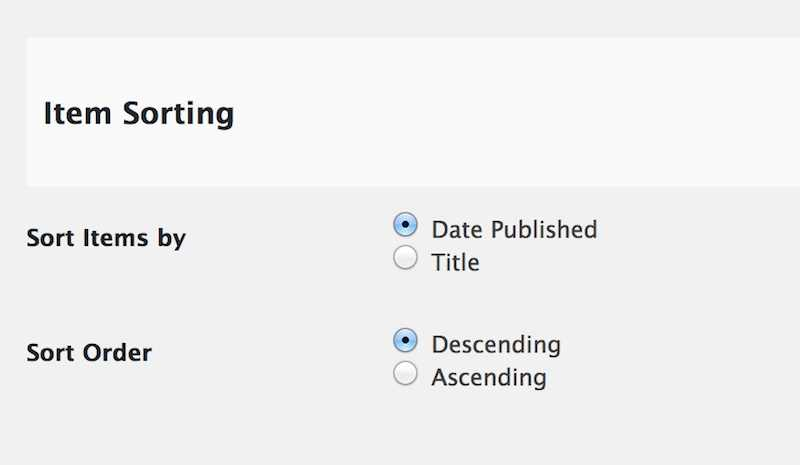
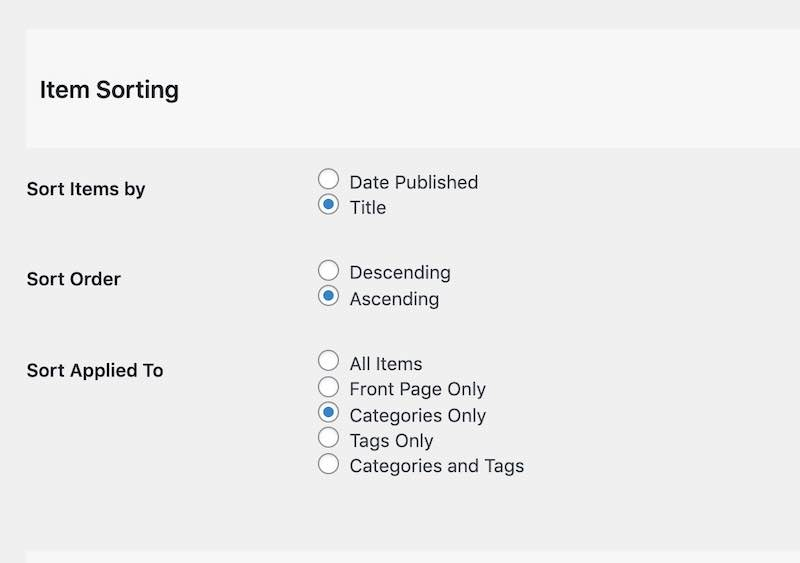
Sorting and new shortcodes options
SPLOTbox Options provides settings to change the sorting of published items to be by date or alphabetical, and can be ascending or descending. There are also settings to apply it only to the home page, or just to tag and/or category archives. Also updated template to properly display archive headings and descriptions (for tag and category archives). Added shortcodes for listing all (or with other options some) tags used plus a shortcode to display the total number of items published in a box

diff --git a/style.css b/style.css
@@ -2,7 +2,7 @@
 Theme Name: 	Splotbox
 Theme URI: 		http://github.com/cogdog/splotbox
 Description: 	SPLOT Media Collector (Child of Garfunkel)
-Version: 		3.92
+Version: 		3.95
 Template:   garfunkel
 Author: 		CogDog
 Author URI: 	https://cog.dog/

diff --git a/includes/tools.php b/includes/tools.php
@@ -11,17 +11,17 @@ function page_with_template_exists ( $template ) {
 				'meta_key' => '_wp_page_template',
 				'meta_value' => $template
 			));
-	 
+
 	// did we find any?
 	$pages_found = ( count ($seekpages) ) ? true : false ;
-	
+
 	// report to base
 	return ($pages_found);
 }
 
 function get_pages_with_template ( $template ) {
 	// returns array of pages with a given template
-	
+
 	// look for pages that use the given template
 	$seekpages = get_posts (array (
 				'post_type' => 'page',
@@ -29,16 +29,16 @@ function get_pages_with_template ( $template ) {
 				'meta_value' => $template,
 				'posts_per_page' => -1
 	));
-	
+
 	// holder for results
 	$tpages = array(0 => 'Select Page');
-	
+
 
 	// Walk those results, store ID of pages found
 	foreach ( $seekpages as $p ) {
 		$tpages[$p->ID] = $p->post_title;
 	}
-	
+
 	return $tpages;
 }
 
@@ -46,7 +46,7 @@ function splotbox_get_share_page() {
 
 	// return sluf for page set in theme options for sharing page (newer versions of SPLOT)
 	if ( splotbox_option( 'share_page' ) )  {
-		return ( get_post_field( 'post_name', get_post( splotbox_option( 'share_page' ) ) ) ); 
+		return ( get_post_field( 'post_name', get_post( splotbox_option( 'share_page' ) ) ) );
 	} else {
 		// older versions of SPLOT use the slug
 		return ('share');
@@ -57,7 +57,7 @@ function splotbox_get_licensed_page() {
 
 	// return sluf for page set in theme options for licenses page (newer versions of SPLOT)
 	if ( splotbox_option( 'licensed_page' ) )  {
-		return ( get_post_field( 'post_name', get_post( splotbox_option( 'licensed_page' ) ) ) ); 
+		return ( get_post_field( 'post_name', get_post( splotbox_option( 'licensed_page' ) ) ) );
 	} else {
 		// older versions of SPLOT use the slug
 		return ('licensed');
@@ -87,22 +87,22 @@ function splot_redirect_url() {
 
 // return the maxium upload file size in omething more useful than bytes
 function splotbox_max_upload() {
-	$maxupload = wp_max_upload_size() / 1000000;	
+	$maxupload = wp_max_upload_size() / 1000000;
 	return ( round( $maxupload ) . ' Mb');
 
 }
-								
+
 // function to get the caption for an attachment (stored as post_excerpt)
 // -- h/t http://wordpress.stackexchange.com/a/73894/14945
 
 function get_attachment_caption_by_id( $post_id ) {
     $the_attachment = get_post( $post_id );
-    return ( $the_attachment->post_excerpt ); 
+    return ( $the_attachment->post_excerpt );
 }
 
-// for uploading images 
+// for uploading images
 function splotbox_insert_attachment( $file_handler, $post_id ) {
-	
+
 	if ($_FILES[$file_handler]['error'] !== UPLOAD_ERR_OK) return (false);
 
 	require_once( ABSPATH . "wp-admin" . '/includes/image.php' );
@@ -110,9 +110,9 @@ function splotbox_insert_attachment( $file_handler, $post_id ) {
 	require_once( ABSPATH . "wp-admin" . '/includes/media.php' );
 
 	$attach_id = media_handle_upload( $file_handler, $post_id );
-	
+
 	return ($attach_id);
-	
+
 }
 
 
@@ -122,7 +122,7 @@ function splotbox_insert_attachment( $file_handler, $post_id ) {
 
 function splotbox_preview_notice() {
 	return ('<div class="notify"><span class="symbol icon-info"></span>
-This is a preview of your entry that shows how it will look when published. <a href="#" onclick="self.close();return false;">Close this window/tab</a> when done to return to the sharing form. Make any changes and click "Revise Draft" again or if it is ready, click "Publish Now".		
+This is a preview of your entry that shows how it will look when published. <a href="#" onclick="self.close();return false;">Close this window/tab</a> when done to return to the sharing form. Make any changes and click "Revise Draft" again or if it is ready, click "Publish Now".
 				</div>');
 }
 
@@ -145,7 +145,7 @@ function splotbox_get_two_items() {
 		foreach ( $rand_posts as $apost ) {
 			$rand_titles[] = $apost->post_title;
 		}
-	
+
 		return ($rand_titles);
 	} else {
 		// just in case we did not get enought
@@ -178,30 +178,30 @@ function make_links_clickable( $text ) {
 
 // -----  expose post meta date to API
 add_action( 'rest_api_init', 'splotbox_create_api_posts_meta_field' );
- 
+
 function splotbox_create_api_posts_meta_field() {
- 
+
 	register_rest_field( 'post', 'splot_meta', array(
 								 'get_callback' => 'splotbox_get_splot_meta_for_api',
  								 'schema' => null,)
  	);
 }
- 
+
 function splotbox_get_splot_meta_for_api( $object ) {
 	//get the id of the post object array
 	$post_id = $object['id'];
 
 	// meta data fields we wish to make available
 	$splot_meta_fields = ['author' => 'wAuthor', 'license' => 'wLicense', 'footer' => 'wFooter'];
-	
+
 	// array to hold stuff
 	$splot_meta = [];
- 
+
  	foreach ($splot_meta_fields as $meta_key =>  $meta_value) {
 	 	//return the post meta for each field
 	 	$splot_meta[$meta_key] =  get_post_meta( $post_id, $meta_value, true );
 	 }
-	 
+
 	 return ($splot_meta);
 }
 
@@ -212,6 +212,49 @@ add_shortcode("feedicon", "splotbox_feed_icon");
 
 function splotbox_feed_icon()  {
 	return '<img src="' . get_stylesheet_directory_uri() . '/images/feed.png" alt=""> ';
+}
+
+// Output a list of all tags
+add_shortcode("taglist", "splotbox_taglist");
+
+function splotbox_taglist( $atts )  {
+  	extract(shortcode_atts( array( "number" => '0', "show_count" => true, "orderby" => 'name', "order" => "ASC", "hide_empty" => 1, "mincount" => '1' ), $atts ));
+
+  	// set args
+	$tags = get_tags(array(
+	  'number' => $number,
+	  'count' => $show_count,
+	  'orderby' => $orderby,
+	  'order' => $order,
+	  'hide_empty' => $hide_empty,
+
+	));
+
+	if ($tags) {
+    	$output .= '<ul class="taglist">';
+
+        foreach ($tags as $tag) {
+          if ($tag->count >= $mincount) {
+			  $output .= '<li><a href="'. get_term_link($tag).'">'. $tag->name .'</a>';
+			  if ($show_count)  $output .= ' (' . $tag->count . ')';
+			  $output .= '</li>';
+		  }
+        }
+
+    	$output .= '</ul>';
+
+ 	} else {
+ 		$output = '<p>No tags found!</p>';
+ 	}
+
+ 	return $output;
+}
+
+// ----- short code to show number of published items
+add_shortcode('splotcount', 'splot_count_splots');
+
+function splot_count_splots() {
+	return wp_count_posts()->publish;
 }
 
 ?>

diff --git a/includes/setup.php b/includes/setup.php
@@ -175,23 +175,53 @@ function splotbox_comment_mod( $defaults ) {
 	return $defaults;
 }
 
+// -----  sort ordering
 
-// options for post order on front page
 add_action( 'pre_get_posts', 'splotbox_order_items' );
 
 function splotbox_order_items( $query ) {
 
-	// just the main, please
-	if ( $query->is_main_query() ) {
+	if ( !is_admin() && $query->is_main_query()  ) {
 
-		// change sort order on home, archives, or search results
-		if (  $query->is_home()  OR $query->is_archive() OR $query->is_search() ) {
 
-			$query->set( 'orderby', splotbox_option('sort_by')  );
-			$query->set( 'order', splotbox_option('sort_direction') );
+		switch (splotbox_option('sort_applies')) {
 
-		}
-	}
+			case 'all':
+				if (  $query->is_home() OR $query->is_archive() OR $query->is_search() ) {
+					$query->set( 'orderby', splotbox_option('sort_by')  );
+					$query->set( 'order', splotbox_option('sort_direction') );
+				}
+				break;
+
+			case 'front':
+				if (  $query->is_home() ) {
+					$query->set( 'orderby', splotbox_option('sort_by')  );
+					$query->set( 'order', splotbox_option('sort_direction') );
+				}
+				break;
+			case 'tag':
+				if (  $query->is_tag() ) {
+					$query->set( 'orderby', splotbox_option('sort_by')  );
+					$query->set( 'order', splotbox_option('sort_direction') );
+				}
+				break;
+			case 'cat':
+				if (  $query->is_category() ) {
+					$query->set( 'orderby', splotbox_option('sort_by')  );
+					$query->set( 'order', splotbox_option('sort_direction') );
+				}
+				break;
+			case 'tagcat':
+				if (  $query->is_archive() ) {
+					$query->set( 'orderby', splotbox_option('sort_by')  );
+					$query->set( 'order', splotbox_option('sort_direction') );
+				}
+				break;
+
+		} // switch
+
+	} // if  main query
+
 }
 
 // -----  add allowable url parameters

diff --git a/class.splotbox-theme-options.php b/class.splotbox-theme-options.php
@@ -477,6 +477,21 @@ class splotbox_Theme_Options {
 					)
 		);
 
+		$this->settings['sort_applies'] = array(
+			'section' => 'general',
+			'title'   => __( 'Sort Applied To'),
+			'desc'    => '',
+			'type'    => 'radio',
+			'std'     => 'all',
+			'choices' => array (
+							'all' => 'All Items',
+							'front' => 'Front Page Only',
+							'cat' => 'Categories Only',
+							'tag' => 'Tags Only',
+							'tagcat' => 'Categories and Tags'
+					)
+		);
+
 		// ------- single item display
 		$this->settings['single_item_heading'] = array(
 			'section' => 'general',

diff --git a/README.md b/README.md
@@ -243,6 +243,7 @@ The default settings for the display of itms are for typical blogs where newest 
 
 Change the sort otder to **Title** to... yes... sort items alphabetically by each item's title.  Use **Ascending** for alphabetical order (A-Z) or **Descending** to reverse (Z-A).
 
+Use the **Sort Applies To** option to specify where the alternative sorting is applied (for example, just on tags archive, or just the home page).
 
 ## Single Item Display
 
@@ -309,7 +310,40 @@ SPLOTbox provides links that display archives of content that have the same reus
 
 Use the page to find links to the ones you wish to use and add to your site's menus or widgets. If the links do not work, you may have to go to **Settings** -- **Permalinks** and just click save to regenerate the settings.
 
-For extra flexibility there is a `[licensed]` shortcode that can be used in a widget or any page to display the same index list in a sidebar. By default, it lists only licenses used (e.g. it skips licenses with zero uses); to show all licenses, use the code `[licensed show="all"]`.
+## Shortcodes
+
+### Licenses Used
+
+Use the `[licensed]` shortcode that can be used in a widget or any page to display a list of all licenses in a page or sidebar. By default, it lists only licenses used (e.g. it skips licenses with zero uses); to show all licenses, use the code `[licensed show="all"]`.
+
+### Display All Tags
+
+By request for a site that had more than 45 tags (that is the maximum that can be displayed in the Tag Cloud widget.
+
+The basic use is just
+
+`[taglist]`
+
+which displays all tags used in alphabetical order, each linked to an archive, and the number of times used listed.
+
+Optional parameters include:
+
+* `number=10` limit to ten tags (default=0 or all tags)
+* `show_count=false` hides the display of the number of times tag used (default=true)
+* `mincount=2` will only show tags used 2 or more times (default=1)
+* `orderby="count"` to order results by the number of times tag used (default="name")
+* `order="DESC"` to list in descending order (default="ASC")
+* `hide_empty=0` to list tags not used (default=1)
+
+In use, this will display the 20 most used tags
+
+`[taglist number=20 orderby="count" order="DESC"]`
+
+### Count of Published items
+
+Use [splotcount] to display the number of all published items
+
+
 
 ## Optional / Suggested Add-ons
 
@@ -362,6 +396,8 @@ Go build collections of media!
 
 ## Relatively Cool New Features & Updates
 
+
+* (3.95) SPLOTbox Options provides settings to change the sorting of published items to be by date or alphabetical, and can be ascending or descending. There are also settings to apply it only to the home page, or just to tag and/or category archives. Also updated template to properly display archive headings and descriptions (for tag and category archives). Added shortcodes for listing all (or with other options some) tags used plus a shortcode to display the total number of items published in a box
 * (3.92) Customizer options created for all metadata fields in a single item view. Also, new theme options added to enable use of categories or tags by admin editing only (they are not options on the share form, but can be edited in the Dashboard).
 * (3.9) Tested for support of Kaltura video via SPLOTbox Extender plugin, archive for media types identified via post formats, css for taxonomy widget to display them.
 * (3.82) Small bug cleared to allow Customizer access to form if access code in play
